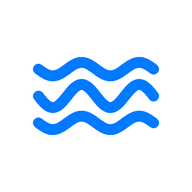
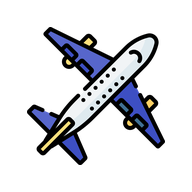
feat: icono de la app con el avión

Changed region(s): [[0.125, 0.125, 0.875, 0.875]]

diff --git a/sw.js b/sw.js
@@ -1,11 +1,11 @@
 // Network-first para los archivos propios (así las actualizaciones llegan al momento),
 // con la caché como respaldo sin conexión. Las APIs externas no pasan por aquí.
-const CACHE = 'turbi-v3';
+const CACHE = 'turbi-v4';
 const SHELL = [
   './', 'index.html', 'css/style.css', 'manifest.json',
   'js/app.js', 'js/ui.js', 'js/route.js', 'js/time.js', 'js/weather.js', 'js/turbulence.js',
   'js/flight.js', 'js/airports.js', 'js/places.js', 'js/history.js', 'js/schedule.js',
-  'data/airports.json', 'img/sky.jpg', 'icons/icon-180.png', 'icons/icon-192.png', 'icons/icon-512.png',
+  'data/airports.json', 'img/sky.jpg', 'icons/icon-32.png', 'icons/icon-180.png', 'icons/icon-192.png', 'icons/icon-512.png',
 ];
 
 self.addEventListener('install', e => {

diff --git a/index.html b/index.html
@@ -8,6 +8,7 @@
   <meta name="apple-mobile-web-app-status-bar-style" content="black-translucent">
   <meta name="apple-mobile-web-app-title" content="Turbi">
   <link rel="apple-touch-icon" href="icons/icon-180.png">
+  <link rel="icon" type="image/png" sizes="32x32" href="icons/icon-32.png">
   <link rel="manifest" href="manifest.json">
   <link rel="stylesheet" href="css/style.css">
   <title>Turbi</title>

diff --git a/scripts/make-icons.py b/scripts/make-icons.py
@@ -1,29 +1,22 @@
-# Genera los iconos de Turbi: fondo blanco y tres ondas azules.
+# Genera los iconos de Turbi a partir de img/plane.png (avión sobre fondo blanco).
 # Uso: python3 scripts/make-icons.py
-import math
 from pathlib import Path
-from PIL import Image, ImageDraw
+from PIL import Image
 
-BLUE = (0, 122, 255)
-OUT = Path(__file__).resolve().parent.parent / "icons"
+ROOT = Path(__file__).resolve().parent.parent
+OUT = ROOT / "icons"
 OUT.mkdir(exist_ok=True)
+SRC = Image.open(ROOT / "img" / "plane.png").convert("RGBA")
+MARGIN = 0.14  # iOS recorta las esquinas: el avión no debe tocarlas
 
 def icon(size):
-    scale = 4  # supermuestreo para bordes suaves
-    s = size * scale
-    img = Image.new("RGB", (s, s), "white")
-    d = ImageDraw.Draw(img)
-    width = int(s * 0.055)
-    for row, amp in zip((0.36, 0.5, 0.64), (0.035, 0.06, 0.035)):
-        # Trazo como círculos solapados: evita los dientes de d.line con segmentos cortos.
-        r = width / 2
-        steps = 1200
-        for i in range(steps + 1):
-            x = s * (0.2 + 0.6 * i / steps)
-            y = s * row + s * amp * math.sin(i / steps * 4 * math.pi)
-            d.ellipse((x - r, y - r, x + r, y + r), fill=BLUE)
-    return img.resize((size, size), Image.LANCZOS)
+    canvas = Image.new("RGBA", (size, size), (255, 255, 255, 255))
+    inner = round(size * (1 - 2 * MARGIN))
+    plane = SRC.resize((inner, inner), Image.LANCZOS)
+    off = (size - inner) // 2
+    canvas.alpha_composite(plane, (off, off))
+    return canvas.convert("RGB")
 
-for size in (180, 192, 512):
+for size in (32, 180, 192, 512):
     icon(size).save(OUT / f"icon-{size}.png")
     print(f"icons/icon-{size}.png")
